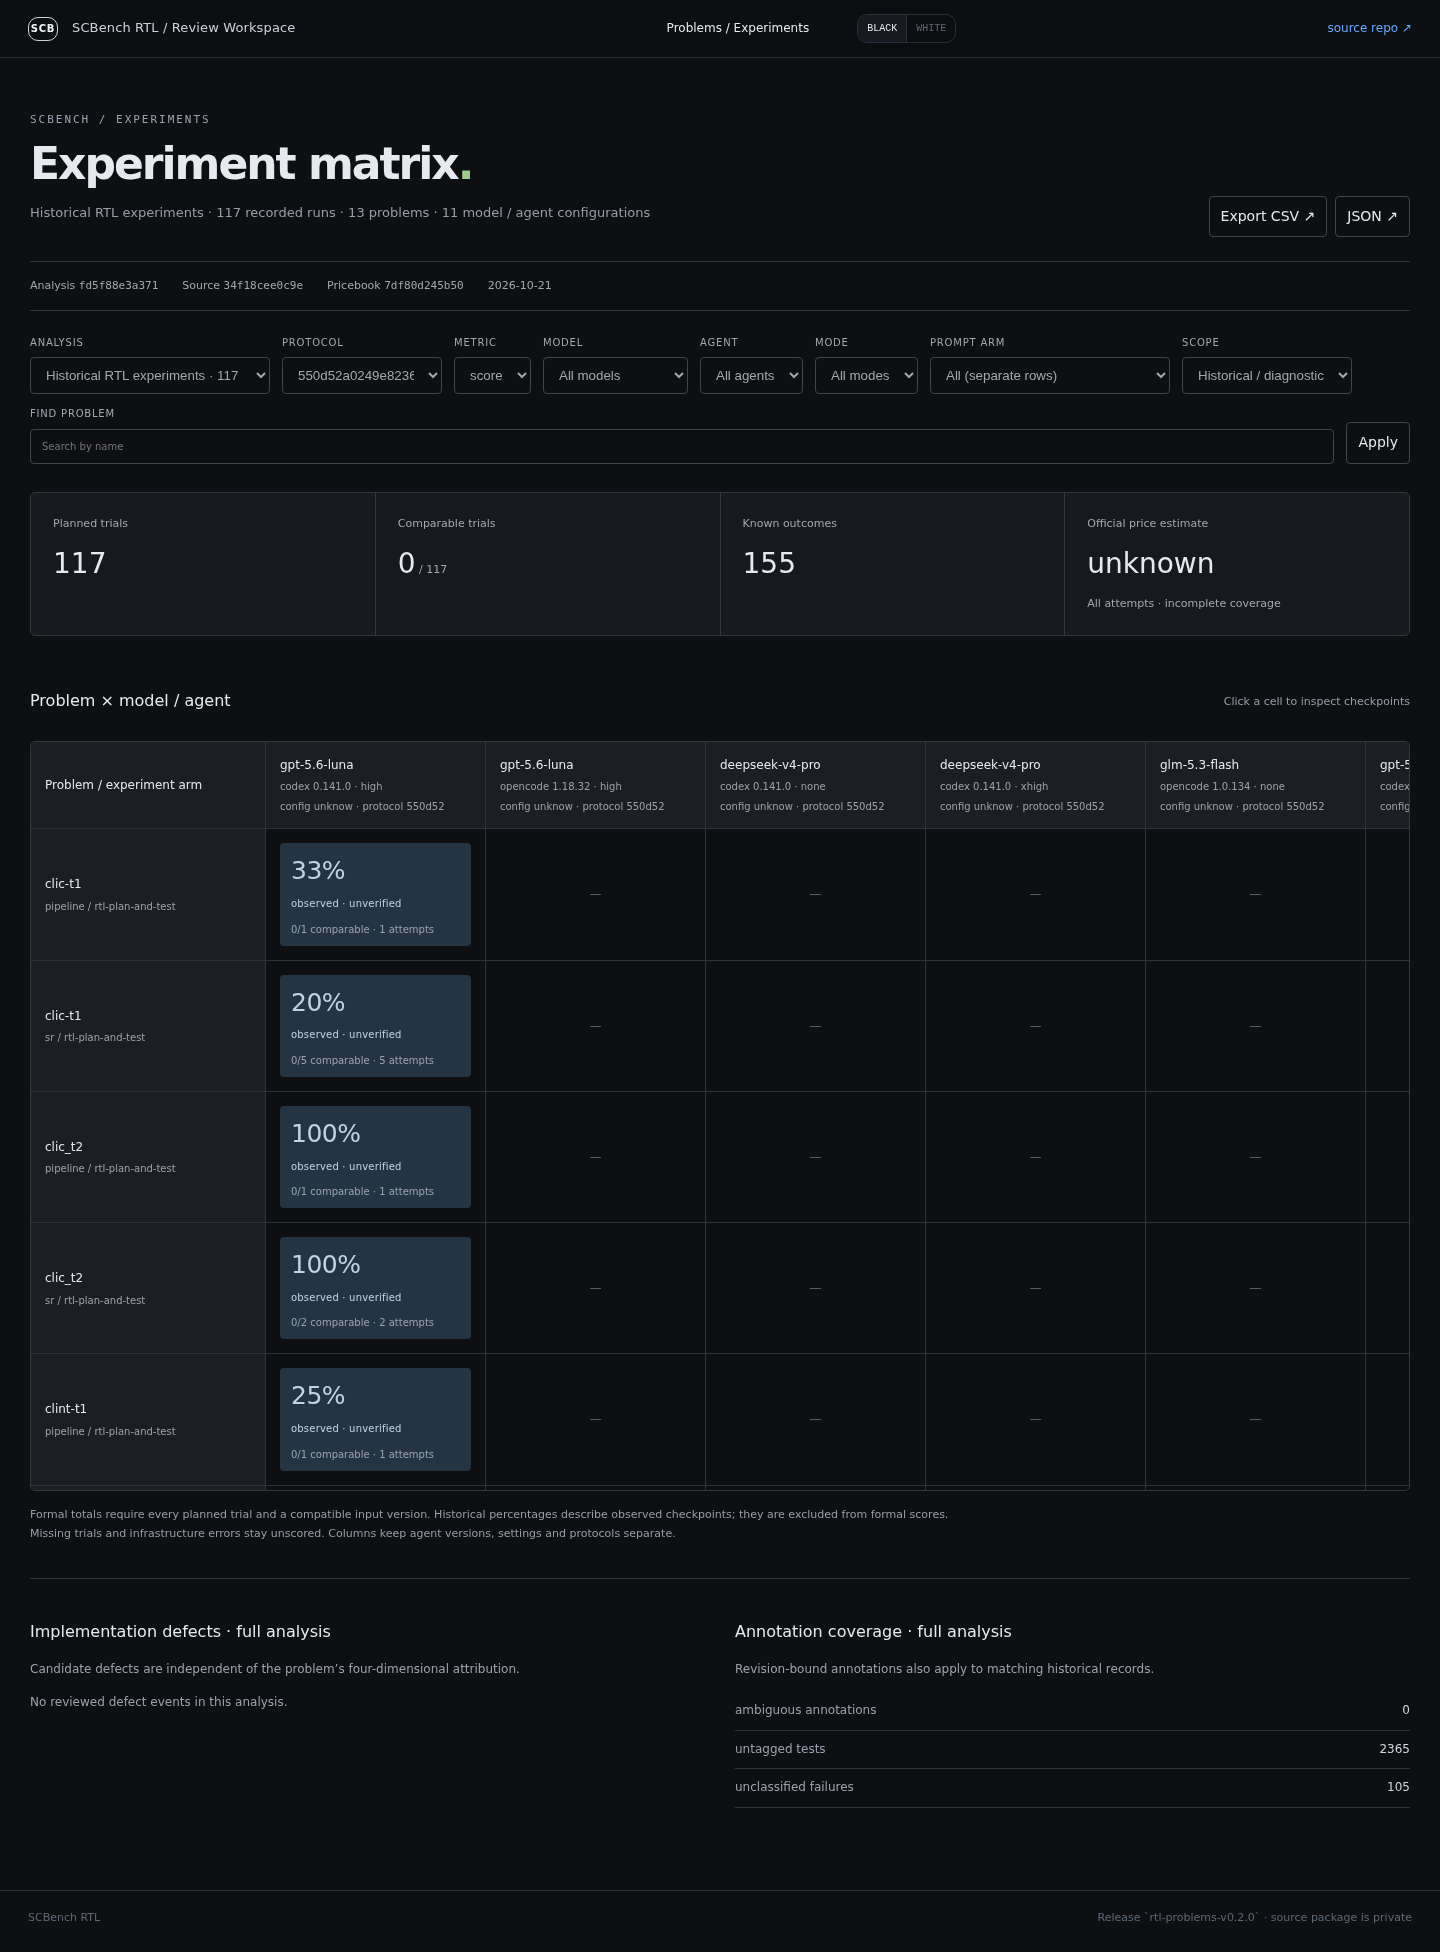
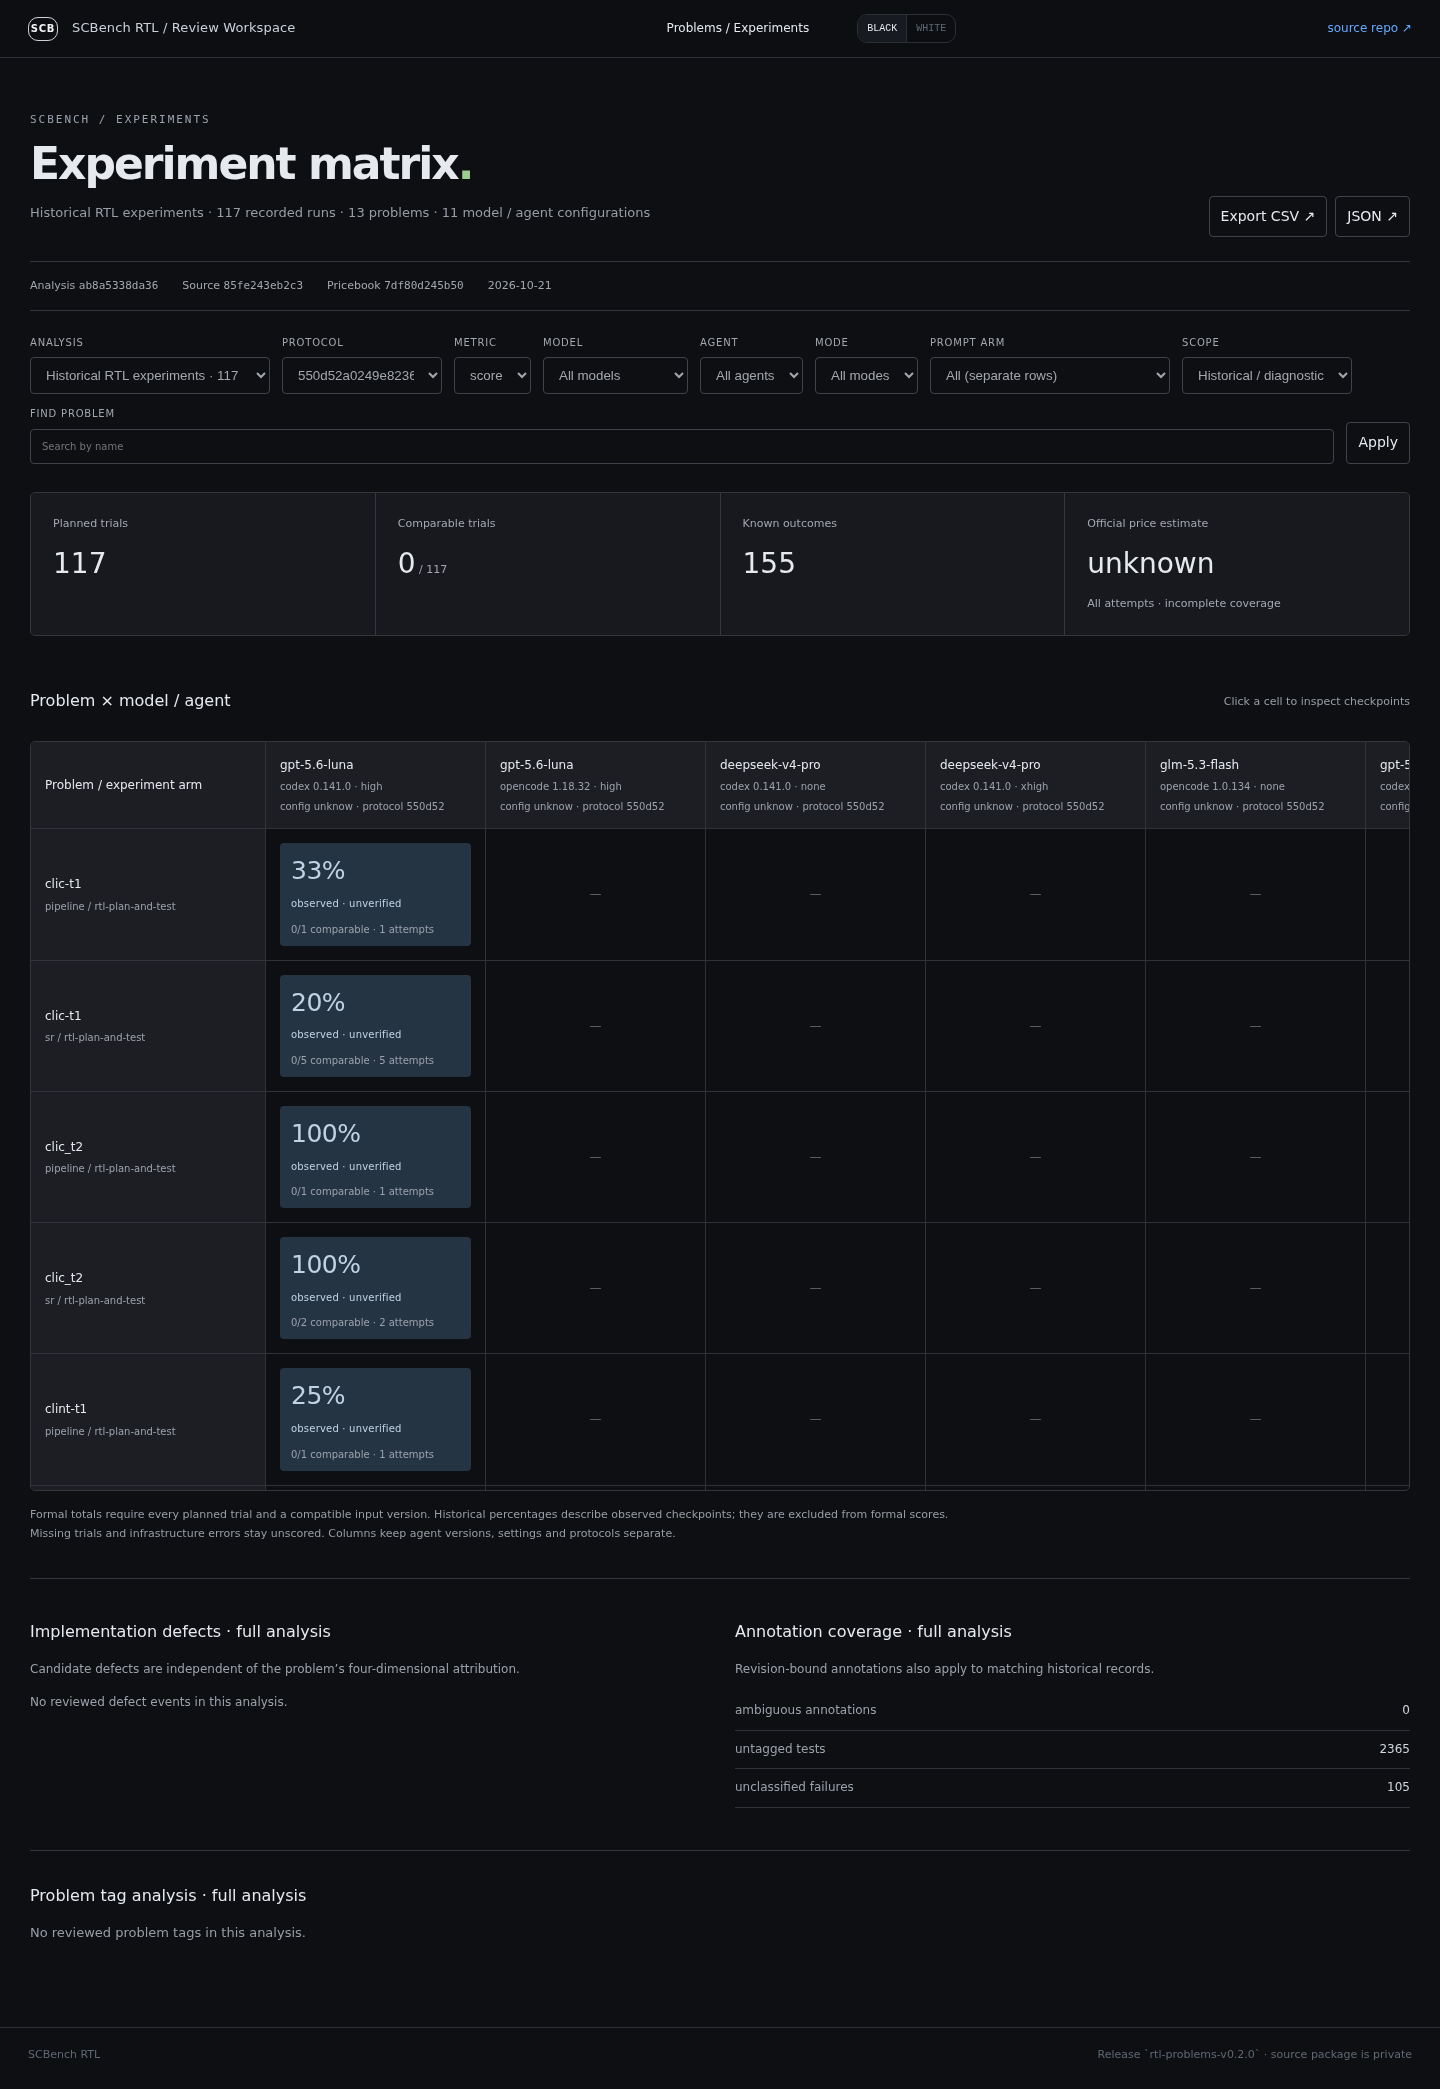
Expose Historical Tag Statistics And Test Matrix Changes

diff --git a/experiments.css b/experiments.css
@@ -1,1 +1,3 @@
 .experiment-page{max-width:1500px;margin:0 auto;padding:44px 30px 70px}.matrix-heading{display:flex;justify-content:space-between;align-items:end;gap:24px}.eyebrow{font:11px ui-monospace,monospace;letter-spacing:.18em;color:#9ba3b0}.matrix-heading h1{font-size:44px;letter-spacing:-2px;line-height:1.1;margin:14px 0}.matrix-dot{color:#9ecb8e}.matrix-subtitle,.matrix-muted,.matrix-method{color:#989da6;font-size:13px;line-height:1.7}.matrix-actions{display:flex;gap:8px}.experiment-page button,.experiment-page input,.experiment-page select{background:transparent;color:inherit;border:1px solid #40434b;border-radius:4px;padding:9px 11px;font:12px inherit}.experiment-page button{cursor:pointer}.experiment-page button:hover{border-color:#9ecb8e}.experiment-page button:focus-visible,.experiment-page a:focus-visible,.matrix-scroll:focus-visible{outline:2px solid #9ecb8e;outline-offset:3px}.experiment-page option{background:#191b20;color:#eee}.matrix-provenance{display:flex;flex-wrap:wrap;gap:12px 24px;border-top:1px solid #34363d;border-bottom:1px solid #34363d;padding:15px 0;margin:24px 0;color:#a4a8ae;font-size:11px}.matrix-filters{display:flex;gap:12px;align-items:end;flex-wrap:wrap}.matrix-filters label{display:grid;gap:7px;font-size:10px;text-transform:uppercase;letter-spacing:.08em;color:#a4a8ae}.matrix-filters select{max-width:240px}.matrix-filters select[name=protocol]{max-width:160px}.matrix-search{flex:1;min-width:130px}.matrix-kpis{display:grid;grid-template-columns:repeat(4,1fr);gap:1px;border:1px solid #34363d;background:#34363d;border-radius:5px;margin:28px 0 40px;overflow:hidden}.matrix-kpis>div{background:#17191e;padding:22px;display:flex;flex-direction:column;gap:10px}.matrix-kpis span{font-size:11px;color:#a4a8ae}.matrix-kpis strong{font-size:28px;font-weight:500}.matrix-kpis small{font-size:11px;color:#a4a8ae;font-weight:400}.matrix-section-title{display:flex;justify-content:space-between;align-items:center;gap:14px;margin-bottom:14px}.matrix-section-title h2,.matrix-bottom h2{font-size:16px;font-weight:500}.matrix-section-title>span{font-size:11px;color:#989da6}.matrix-scroll{overflow:auto;max-height:75vh;border:1px solid #34363d;border-radius:5px}.experiment-matrix,.matrix-checkpoints{width:100%;border-collapse:separate;border-spacing:0;font-size:12px}.experiment-matrix th,.experiment-matrix td,.matrix-checkpoints td,.matrix-checkpoints th{padding:14px;border-right:1px solid #303239;border-bottom:1px solid #303239;text-align:left;vertical-align:middle}.experiment-matrix thead th{position:sticky;top:0;background:#1c1e24;z-index:3;min-width:220px;font-weight:500}.experiment-matrix th:first-child{position:sticky;left:0;background:#1c1e24;z-index:2;min-width:235px}.experiment-matrix thead th:first-child{z-index:4}.experiment-matrix tbody th{font-weight:400}.experiment-matrix small,.matrix-checkpoints small{display:block;color:#9ca2ac;font-weight:400;font-size:10px;margin-top:6px;line-height:1.4}.matrix-cell{display:flex!important;flex-direction:column;gap:5px;width:100%;min-width:160px;border:0!important;text-align:left}.matrix-cell strong{font-size:25px;letter-spacing:-.5px;font-weight:500}.matrix-cell span{font-size:10px;letter-spacing:.02em}.matrix-cell.pass{background:#203c2a;color:#bdddc5}.matrix-cell.fail{background:#462b2d;color:#e6b5b5}.matrix-cell.partial{background:#3e3824;color:#e8d59f}.matrix-cell.observed{background:#253443;color:#c0d3e5}.matrix-cell.pending{background:#25272d;color:#babec6}.matrix-empty{color:#666;text-align:center!important}.matrix-method{max-width:950px;font-size:11px;margin:15px 0 32px}.matrix-detail:empty{display:none}.matrix-detail{border-top:1px solid #34363d;padding-top:24px}.matrix-trial{padding:18px 0 28px}.matrix-trial-title{display:flex;align-items:center;justify-content:space-between;gap:14px}.matrix-trial-title h3{font-size:16px;font-weight:500}.matrix-trial-title small,.matrix-trial-title>span{font-size:11px;color:#989da6}.matrix-checkpoints{min-width:1000px}.matrix-checkpoints th{font-weight:400}.matrix-trial details{padding:14px 0;border-bottom:1px solid #303239;font-size:12px}.matrix-trial summary{cursor:pointer}.matrix-trial li{padding:7px 0;line-height:1.7;overflow-wrap:anywhere}.matrix-trial code{overflow-wrap:anywhere}.outcome-passed{color:#9ecb8e}.outcome-failed{color:#e9a5a5}.outcome-error,.outcome-inference_error,.outcome-evaluation_error{color:#e2bf78}.matrix-bottom{display:grid;grid-template-columns:1fr 1fr;gap:30px;border-top:1px solid #34363d;padding-top:28px;margin-top:35px}.matrix-bottom p,.matrix-bottom dl{font-size:12px;color:#9ca2ac;line-height:1.8}.matrix-bottom dl>div{display:flex;justify-content:space-between;border-bottom:1px solid #303239;padding:8px 0}.matrix-bottom dd{margin:0;color:#d2d7de}.experiment-nav{font-size:12px;margin-left:auto;margin-right:20px}.sr-only{position:absolute;width:1px;height:1px;padding:0;margin:-1px;overflow:hidden;clip:rect(0,0,0,0);white-space:nowrap;border:0}[data-theme=light] .matrix-kpis>div,[data-theme=light] .experiment-matrix th{background:#f4f5f6;color:#292c33}[data-theme=light] .matrix-cell.observed{background:#e3edf6;color:#24435d}[data-theme=light] .experiment-page option{background:white;color:#222}[data-theme=light] .matrix-kpis,[data-theme=light] .matrix-scroll{border-color:#cfd2d7}@media(max-width:700px){.experiment-page{padding:28px 16px 50px}.matrix-heading{align-items:start;flex-direction:column;gap:10px}.matrix-heading h1{font-size:34px}.matrix-kpis{grid-template-columns:repeat(2,1fr);margin:24px 0}.matrix-kpis>div{padding:16px}.matrix-provenance{gap:9px 15px}.matrix-filters label{flex:1;min-width:130px}.matrix-filters select{width:100%;max-width:100%!important}.matrix-section-title{align-items:start;flex-direction:column;gap:0}.experiment-matrix th:first-child{min-width:160px;max-width:180px;overflow-wrap:anywhere}.experiment-matrix thead th{min-width:200px}.matrix-bottom{grid-template-columns:1fr;gap:14px}.matrix-trial-title{align-items:start;flex-direction:column;gap:0}.experiment-nav{margin:0 8px;font-size:10px}.topbar-title{font-size:10px!important}.repo-link{display:none}.matrix-actions button{min-height:40px}}
+
+.matrix-label-statistics{border-top:1px solid #34363d;margin-top:30px;padding-top:20px}.matrix-label-statistics h2{font-size:16px;font-weight:500}
